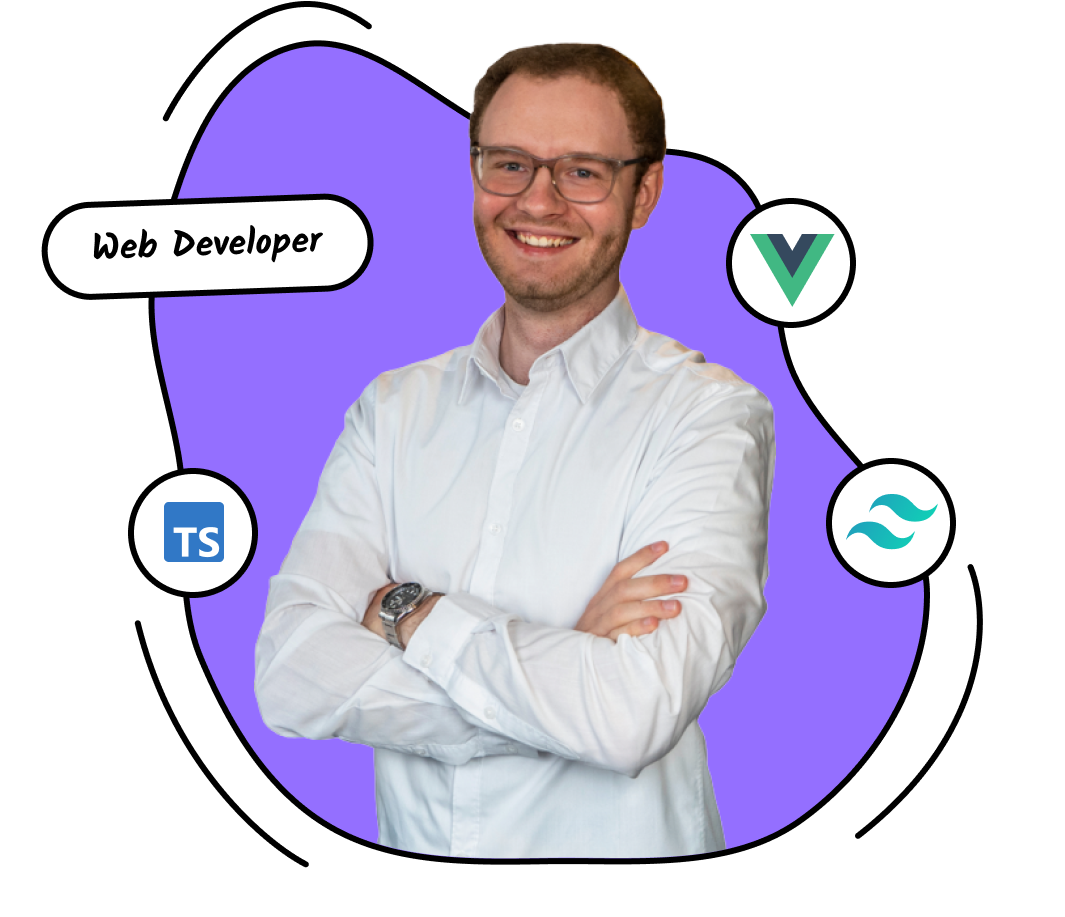
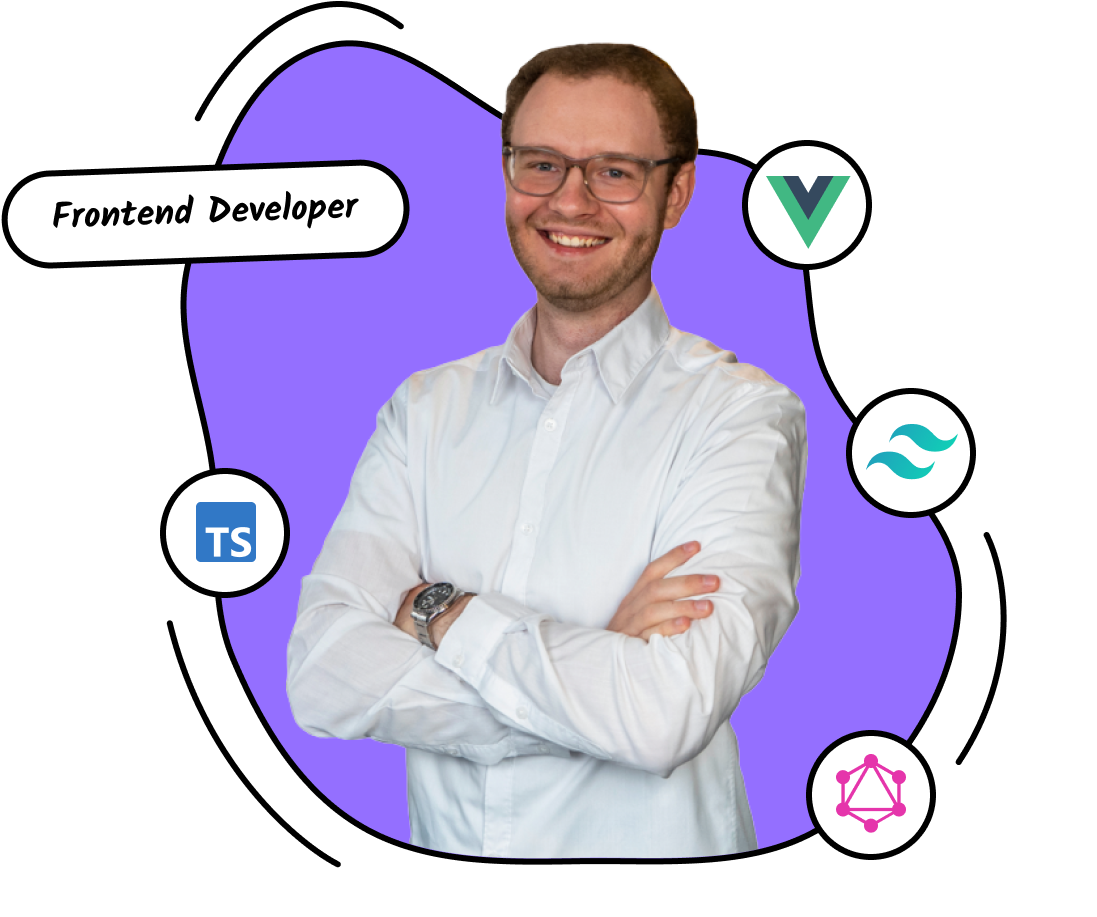
Updated Heroicon and Index text

Changed region(s): [[0.0, 0.0, 0.9296, 0.9466], [0.5887, 0.4885, 0.6197, 0.5191]]

diff --git a/pages/index.vue b/pages/index.vue
@@ -25,8 +25,8 @@
         </div>
         <img class="mt-6 lg:hidden" src="~/assets/hero.png" alt="hero-image" />
         <p class="mt-4">
-          I am a <b>Web Developer</b> from <b>Paderborn, Germany</b>. I work as
-          a <b>Frontend Developer</b> at <b>enra GmbH</b> where I mainly use
+          I am a <b>Frontend Developer</b> from <b>Paderborn, Germany</b>. I
+          work at <b>enra GmbH</b> where I mainly use
           <b>Vue.js, Tailwind CSS, TypeScript</b> and <b>GraphQL</b> to build
           great user experiences.<br />
           In my free time I like to tinker with new technologies and web
